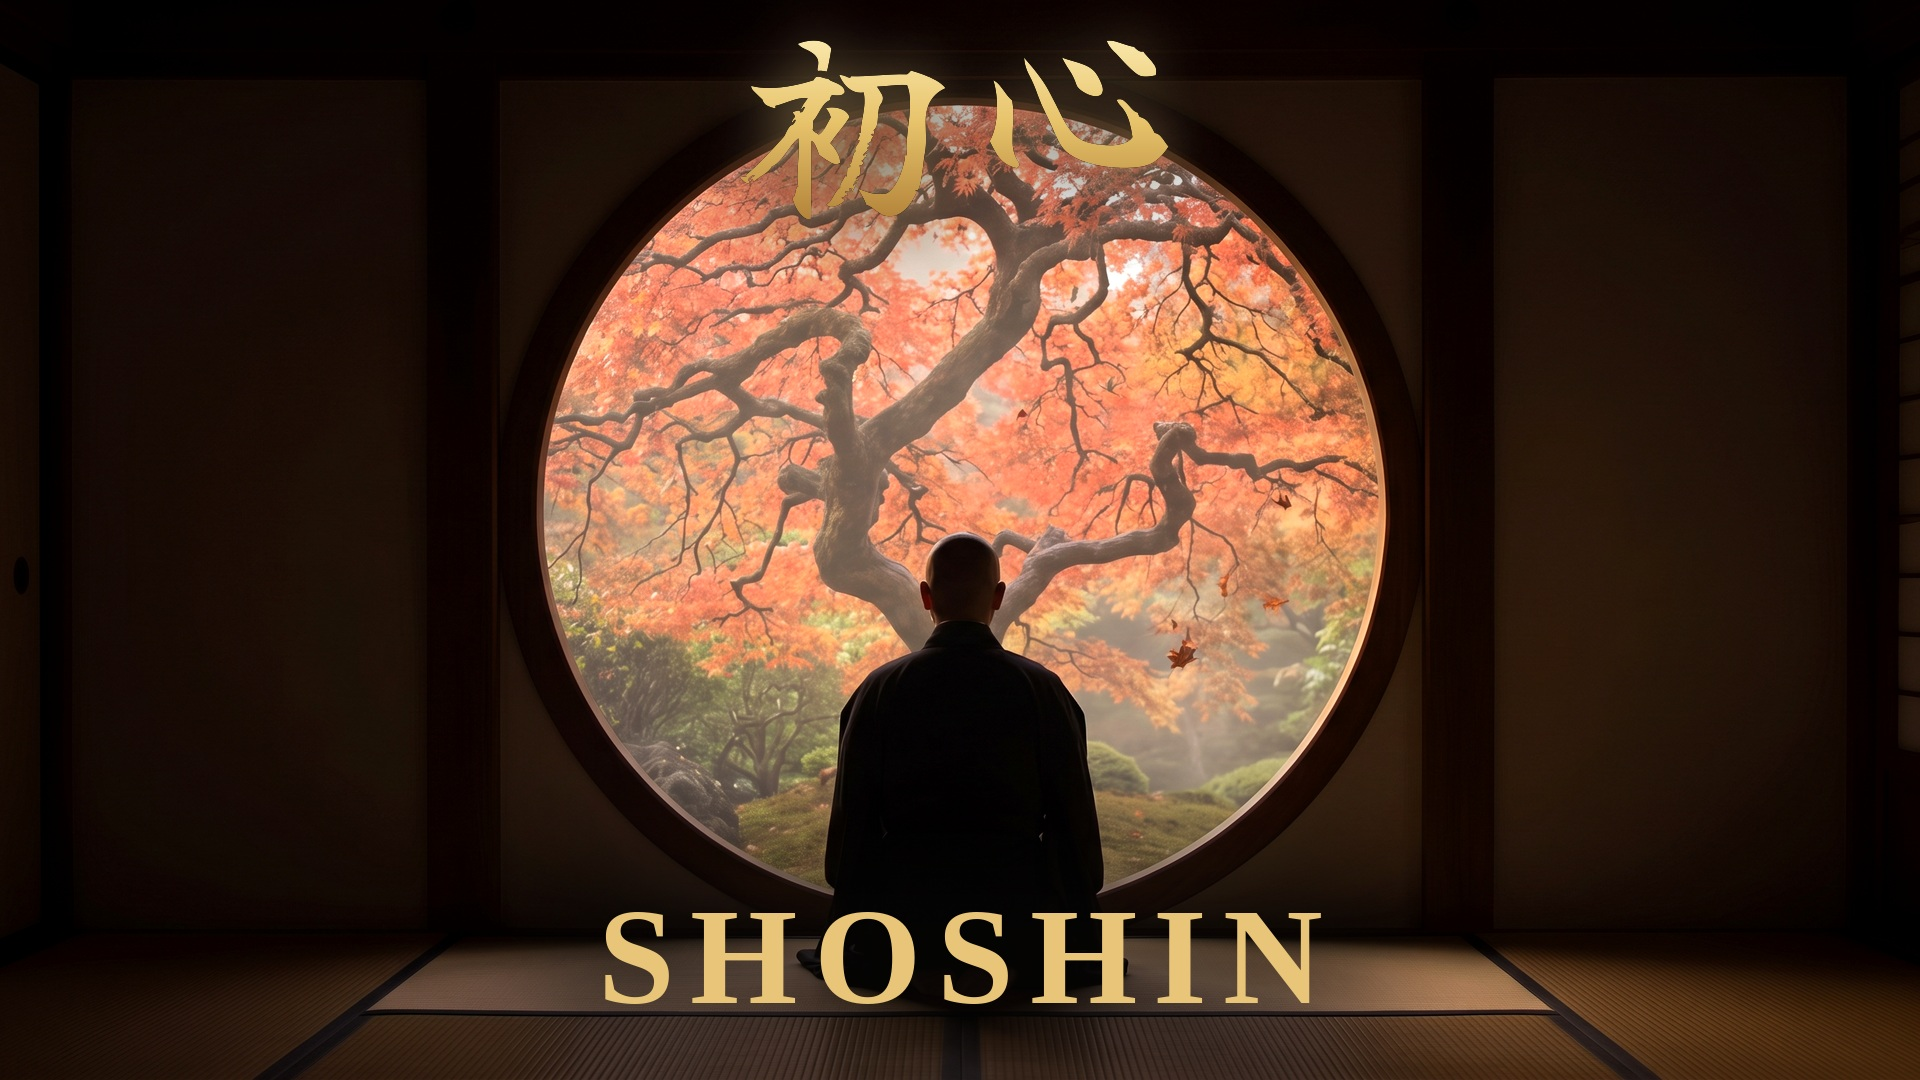
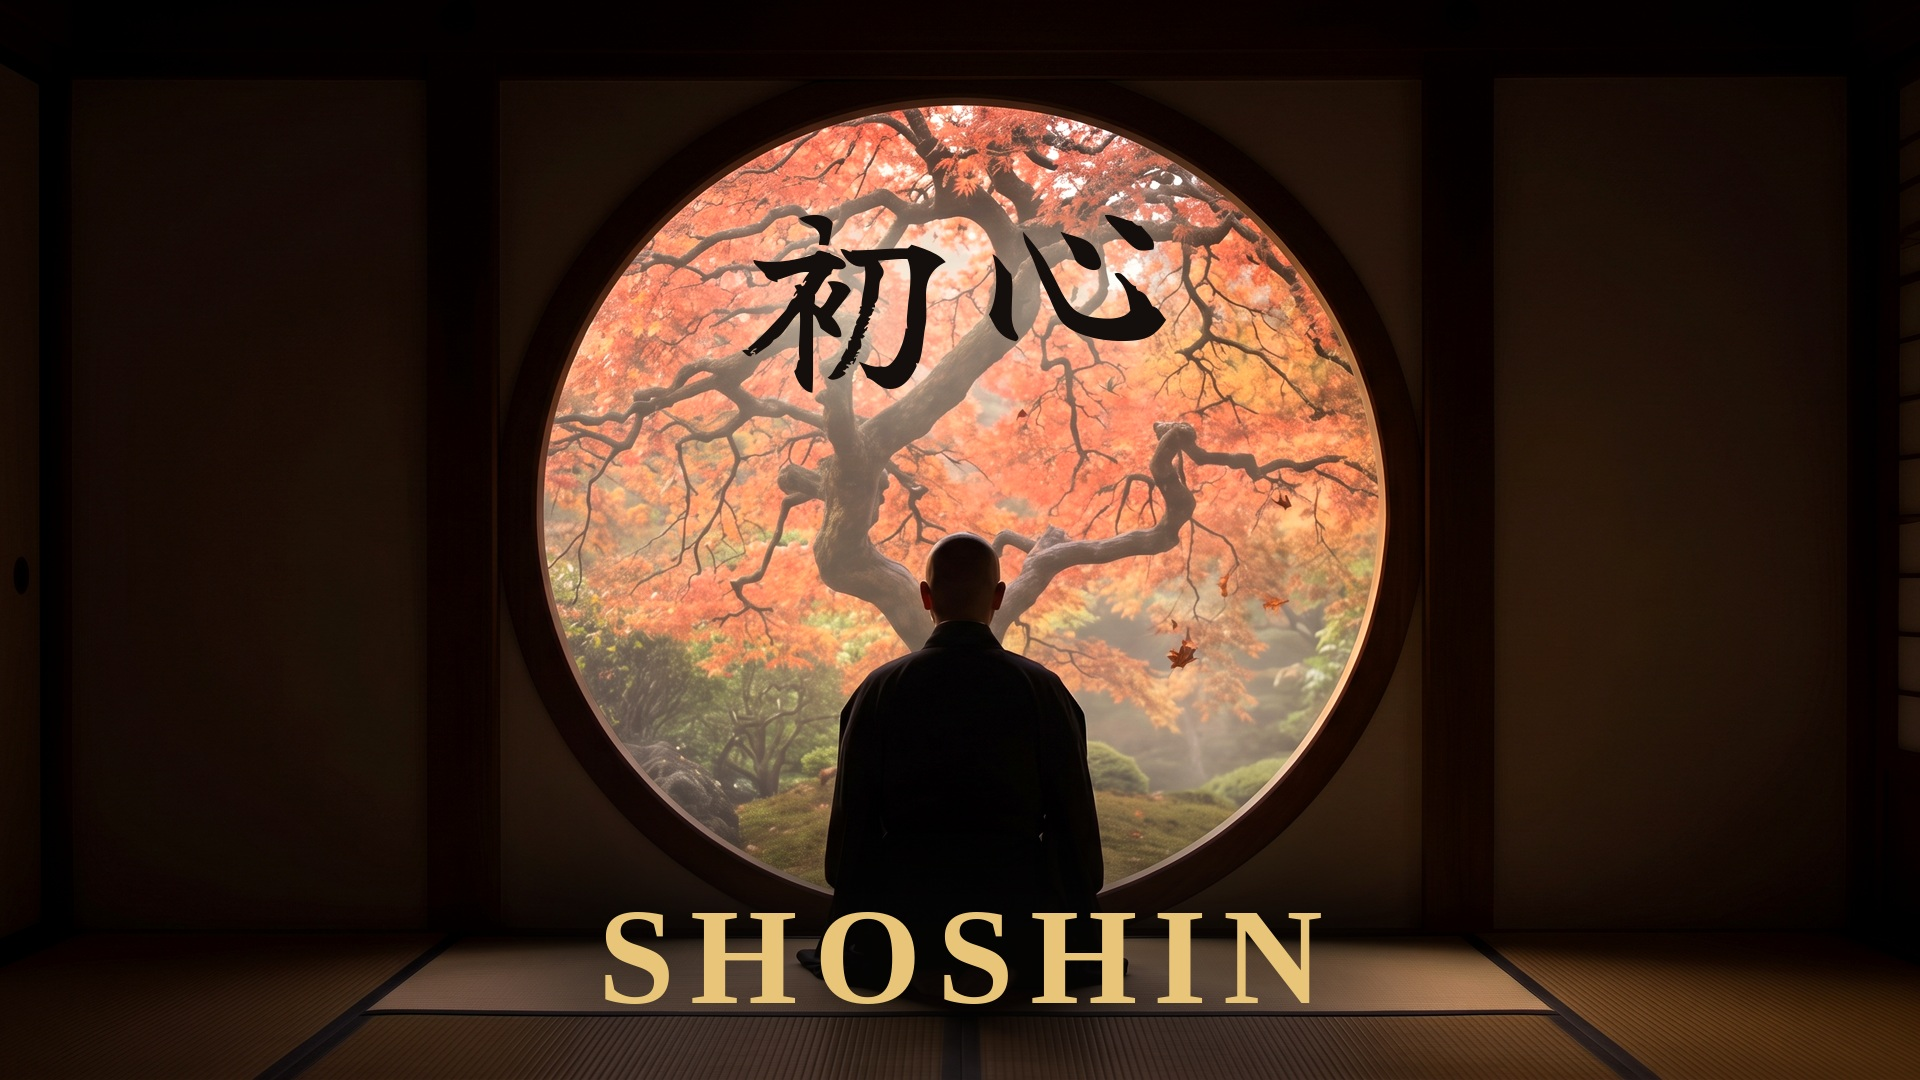
SHOSHIN thumbnail: 初心 lowered + dark sumi ink + cream halo (high contrast on red maple)

Changed region(s): [[0.375, 0.0306, 0.625, 0.3667]]

diff --git a/stillwave/assets/shoshin-compose-thumb.py b/stillwave/assets/shoshin-compose-thumb.py
@@ -52,7 +52,8 @@ def _lerp_gold(f):
     return GOLD_STOPS[-1][1]
 
 
-def sumi(im, chars, size, cx_centre, y, pitch, halo=46):
+def sumi(im, chars, size, cx_centre, y, pitch, halo=40):
+    """dark sumi-ink kanji + soft cream halo — high contrast over the red maple."""
     f = ImageFont.truetype(KANJI, size)
     mask = Image.new("L", (W, H), 0)
     md = ImageDraw.Draw(mask)
@@ -62,22 +63,16 @@ def sumi(im, chars, size, cx_centre, y, pitch, halo=46):
     for i, ch in enumerate(chars):
         l, t, r, b = f.getbbox(ch)
         md.text((x0 + i * pitch - (l + (r - l) / 2), y - t), ch, font=f, fill=255)
-    halo_l = Image.new("RGBA", (W, H), (0, 0, 0, 0))
-    halo_l.paste((6, 5, 6, 255), (0, 0), mask.filter(ImageFilter.GaussianBlur(halo)).point(lambda p: int(p * 0.95)))
-    im.alpha_composite(halo_l)
-    im.alpha_composite(halo_l)
+    # soft cream glow so the black ink separates from the dark branches
     glow = Image.new("RGBA", (W, H), (0, 0, 0, 0))
-    glow.paste((250, 214, 140, 255), (0, 0), mask.filter(ImageFilter.GaussianBlur(26)).point(lambda p: int(p * 0.55)))
+    glow.paste((252, 246, 228, 255), (0, 0),
+               mask.filter(ImageFilter.GaussianBlur(halo)).point(lambda p: int(p * 0.7)))
     im.alpha_composite(glow)
-    ys = [yy for yy in range(H) if mask.crop((0, yy, W, yy + 1)).getextrema()[1] > 0]
-    top_y, bot_y = (min(ys), max(ys)) if ys else (y, y + size)
-    span = max(1, bot_y - top_y)
-    col = Image.new("RGB", (1, span))
-    for yy in range(span):
-        col.putpixel((0, yy), _lerp_gold(yy / span))
-    grad = Image.new("RGBA", (W, H), (0, 0, 0, 0))
-    grad.paste(col.resize((W, span)).convert("RGBA"), (0, top_y))
-    im.alpha_composite(Image.composite(grad, Image.new("RGBA", (W, H), (0, 0, 0, 0)), mask))
+    im.alpha_composite(glow)
+    # deep sumi-ink fill
+    ink = Image.new("RGBA", (W, H), (0, 0, 0, 0))
+    ink.paste((20, 14, 12, 255), (0, 0), mask)
+    im.alpha_composite(ink)
 
 
 def spaced_centre(im, text, size, cx_centre, y, fill=CREAM, ls=16, font=KANJI):
@@ -98,8 +93,8 @@ def spaced_centre(im, text, size, cx_centre, y, fill=CREAM, ls=16, font=KANJI):
 
 im = base()
 CENTRE = 960
-# 初心 gold high, over the top of the maple canopy — above the monk's head
-sumi(im, ["初", "心"], 210, CENTRE, 40, pitch=232)
+# 初心 dark sumi, LOWERED onto the dense red canopy (high contrast), still above the monk's head
+sumi(im, ["初", "心"], 208, CENTRE, 214, pitch=230)
 spaced_centre(im, "SHOSHIN", 138, CENTRE, 880, fill=GOLD, ls=16, font=SERIF)  # low on dark tatami
 im.convert("RGB").save(OUT, quality=94)
 print("saved", OUT)
